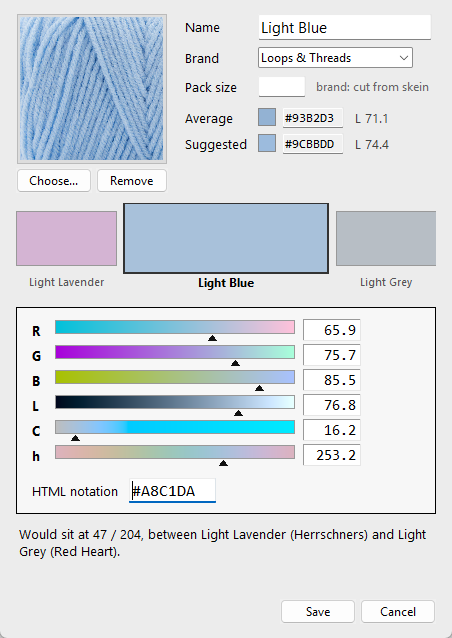
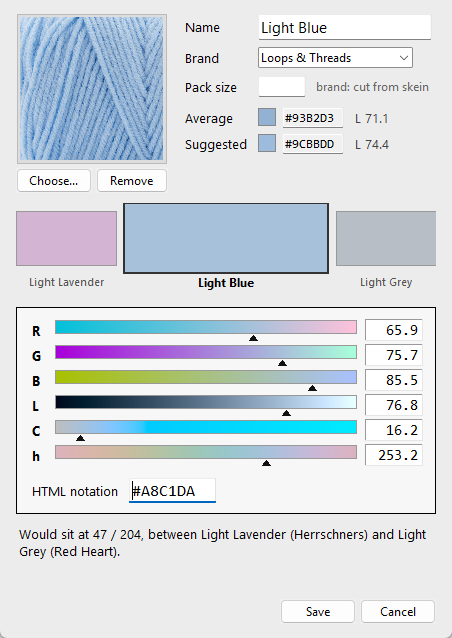
Main window: everything lines up with the swatch, nothing cut off when narrow
- The two color panels fill their halves (outer edges on the swatch's
  edges); their bars grow and shrink with the window, so the yarn's
  difference chips stay inside the panel even at the minimum size. The
  target panel keeps the chip column's room empty so both panels' bars
  line up.
- Stat cards share the full width (Color weight at the end), the six
  buttons share it evenly, and the outer yarn tiles meet the swatch edges.
- Key hints wrap onto as many even lines as needed instead of running
  off the right edge.
- README: main window and yarn dialog retaken (its bars now fill the panel).

Changed region(s): [[0.3717, 0.4765, 0.9292, 0.7445], [0.2168, 0.6552, 0.3407, 0.685], [0.1549, 0.685, 0.1858, 0.7147]]

diff --git a/src/latchwork/app.py b/src/latchwork/app.py
@@ -24,7 +24,7 @@ from .widgets import ColorPanel, StatCard, Tooltip, describe_delta_L, free_name
 ROOT = os.path.dirname(os.path.dirname(os.path.dirname(os.path.abspath(__file__))))
 DATA_DIR = os.path.join(ROOT, "data")
 DEFAULT_PALETTE = os.path.join(DATA_DIR, "palette.csv")
-COMPARE_BAR_W = 200   # channel bars in the comparison: room for the yarn's difference column
+COMPARE_BAR_W = 140   # channel bars in the comparison at least; they grow with the window
 SETTINGS = os.path.join(ROOT, "settings", "latchwork_settings.json")  # per-user, not in git
 OLD_SETTINGS = os.path.join(ROOT, "latchwork_settings.json")          # before the data/ move
 
@@ -293,7 +293,7 @@ class App:
         # width=1: a long name never widens its column; it's cut with "..." to fit instead,
         # and the full name shows on hover
         self.yarn_title = tk.Label(r, text="", font=TITLE_FONT, bg=BG, anchor="w", width=1)
-        self.yarn_title.grid(row=0, column=1, sticky="ew", padx=16, pady=(6, 0))
+        self.yarn_title.grid(row=0, column=1, sticky="ew", padx=(8, 16), pady=(6, 0))
         self._title_font = tkfont.Font(font=TITLE_FONT)
         self._badge_font = tkfont.Font(family="Segoe UI", size=9, weight="bold")
         self._title_text, self._title_cut = "", False
@@ -308,27 +308,32 @@ class App:
 
         self.hex_var = tk.StringVar()
         self.yarn_hex_var = tk.StringVar()
-        self.target_panel = ColorPanel(r, self.hex_var, editable=True, bar_w=COMPARE_BAR_W)
-        self.target_panel.grid(row=2, column=0, sticky="n", padx=16, pady=4)
+        # Everything below the swatch lines up with its edges: each panel fills its half, and
+        # the rows under them span the whole width.
+        self.target_panel = ColorPanel(r, self.hex_var, editable=True, bar_w=COMPARE_BAR_W,
+                                       delta_space=True)
+        self.target_panel.grid(row=2, column=0, sticky="new", padx=(16, 8), pady=4)
         self.yarn_panel = ColorPanel(r, self.yarn_hex_var, editable=True, on_copy=self.copy_hex,
                                      deltas=True, bar_w=COMPARE_BAR_W)
         self.yarn_entry = self.yarn_panel.entry
         self.yarn_hex_var.trace_add("write", lambda *_: self.on_yarn_hex_changed())
         self.yarn_entry.bind("<FocusOut>", lambda e: self.reset_yarn_hex())
-        self.yarn_panel.grid(row=2, column=1, sticky="n", padx=16, pady=4)
+        self.yarn_panel.grid(row=2, column=1, sticky="new", padx=(8, 16), pady=4)
         self.entry = self.target_panel.entry
         self.hex_var.trace_add("write", lambda *_: self.on_hex_changed())
 
+        # Cards share the width in proportion to how much they say; Color weight sits at the end.
         stats = tk.Frame(r, bg=BG)
-        stats.grid(row=3, column=0, columnspan=2, pady=(10, 2))
-        self.delta_card = StatCard(stats, "Lightness difference (yarn \u2212 target)", width=260)
-        self.delta_card.pack(side="left", padx=6)
-        self.pos_card = StatCard(stats, "Position in palette", width=190)
-        self.pos_card.pack(side="left", padx=6)
-        self.match_card = StatCard(stats, "Match rank", width=150)
-        self.match_card.pack(side="left", padx=6)
+        stats.grid(row=3, column=0, columnspan=2, sticky="ew", padx=16, pady=(10, 2))
+        self.delta_card = StatCard(stats, "Lightness difference (yarn \u2212 target)", width=240)
+        self.pos_card = StatCard(stats, "Position in palette", width=170)
+        self.match_card = StatCard(stats, "Match rank", width=140)
+        for col, (card, weight) in enumerate(((self.delta_card, 24), (self.pos_card, 17),
+                                              (self.match_card, 14))):
+            card.grid(row=0, column=col, sticky="ew", padx=(0, 12))
+            stats.columnconfigure(col, weight=weight)
         wbox = tk.Frame(stats, bg=BG)
-        wbox.pack(side="left", padx=(10, 0))
+        wbox.grid(row=0, column=3, sticky="e")
         tk.Label(wbox, text="Color weight", font=UI_FONT, bg=BG).pack(anchor="w")
         self.weight_var = tk.StringVar(value="%g" % self.weight)
         sp = ttk.Spinbox(wbox, from_=0, to=1, increment=0.1, width=5,
@@ -339,18 +344,18 @@ class App:
         tk.Label(wbox, text="0 = lightness only", font=("Segoe UI", 8), bg=BG,
                  fg="#888").pack(anchor="w")
 
+        # Buttons share the width evenly (keys are in the hint bar below, so they stay short).
         nav = tk.Frame(r, bg=BG)
-        nav.grid(row=4, column=0, columnspan=2, pady=6)
-        for text, cmd in (("◀  Lighter", lambda: self.step(-1)),
-                          ("Darker  ▶", lambda: self.step(1)),
-                          ("▲ Better match", lambda: self.cycle_match(-1)),
-                          ("Next match ▼", lambda: self.cycle_match(1))):
-            # keys are in the hint bar below, so the buttons stay short and even
-            ttk.Button(nav, text=text, width=15, command=cmd).pack(side="left", padx=3)
-        self.gray_btn = ttk.Button(nav, text="Grayscale", width=15, command=self.toggle_gray)
-        self.gray_btn.pack(side="left", padx=3)
-        self.assign_main = ttk.Button(nav, text="Assign", width=15, command=self.assign)
-        self.assign_main.pack(side="left", padx=3)
+        nav.grid(row=4, column=0, columnspan=2, sticky="ew", padx=13, pady=6)  # + 3 per button
+        buttons = [ttk.Button(nav, text=text, width=1, command=cmd) for text, cmd in (
+            ("◀  Lighter", lambda: self.step(-1)), ("Darker  ▶", lambda: self.step(1)),
+            ("▲ Better match", lambda: self.cycle_match(-1)),
+            ("Next match ▼", lambda: self.cycle_match(1)),
+            ("Grayscale", self.toggle_gray), ("Assign", self.assign))]
+        self.gray_btn, self.assign_main = buttons[4], buttons[5]
+        for col, b in enumerate(buttons):
+            b.grid(row=0, column=col, sticky="ew", padx=3)
+            nav.columnconfigure(col, weight=1, uniform="nav", minsize=96)
 
         self.strip = tk.Canvas(r, height=96, bg=BG, highlightthickness=0)
         self.strip.grid(row=5, column=0, columnspan=2, sticky="ew", padx=16, pady=(6, 0))
@@ -369,7 +374,8 @@ class App:
 
         hints = tk.Frame(r, bg=BG)
         hints.grid(row=6, column=0, columnspan=2, padx=16, pady=(4, 10))
-        self.hint_rows = [tk.Frame(hints, bg=BG), tk.Frame(hints, bg=BG)]
+        self._hints = hints
+        self.hint_rows = []
         self.hint_items = []
         for keys, text in (("←→", "lighter / darker"), ("N", "next match"), ("B", "better match"),
                            ("Home", "best match"), ("M", "mark candidate"),
@@ -385,21 +391,30 @@ class App:
         r.bind("<Configure>", lambda e: self.layout_hints(e.width), add="+")
 
     def layout_hints(self, width):
-        """One line of key hints when it fits, otherwise two centered lines."""
-        gap = 10
-        total = sum(i.winfo_reqwidth() + gap for i in self.hint_items)
-        split = len(self.hint_items) if total + 32 <= width else (len(self.hint_items) + 1) // 2
+        """Key hints on as few centered lines as fit the width, evened out (2 lines of 6 and
+        5 rather than 10 and 1)."""
+        gap, room = 10, width - 32
+        widths = [i.winfo_reqwidth() + gap for i in self.hint_items]
+        n = len(widths)
+        for lines in range(1, n + 1):
+            per = -(-n // lines)                      # items per line, the same on every line
+            if all(sum(widths[k:k + per]) <= room for k in range(0, n, per)):
+                break
+        split = tuple(range(0, n, per))
         if split == self._hint_split:
             return
         self._hint_split = split
         for row in self.hint_rows:
             row.pack_forget()
-        for n, item in enumerate(self.hint_items):
+        while len(self.hint_rows) < len(split):
+            self.hint_rows.append(tk.Frame(self._hints, bg=BG))
+        for k, item in enumerate(self.hint_items):
             item.pack_forget()
-            item.pack(in_=self.hint_rows[0 if n < split else 1], side="left", padx=(0, gap))
-        self.hint_rows[0].pack()
-        if split < len(self.hint_items):
-            self.hint_rows[1].pack(pady=(3, 0))
+            last = (k + 1) % per == 0 or k == n - 1          # no gap after a line's last item
+            item.pack(in_=self.hint_rows[k // per], side="left", padx=(0, 0 if last else gap))
+            item.lift()   # above the line frames, which may have been created after it
+        for line in range(len(split)):
+            self.hint_rows[line].pack(pady=(0 if line == 0 else 3, 0))
 
     def _bind_keys(self):
         # Arrows step even while typing in the hex field (it's a paste-and-go field).
@@ -1404,8 +1419,10 @@ class App:
         w = c.winfo_width()
         if w < 4 or not self.yarns:
             return
-        slots = 2 * NEIGHBORS + 1
-        sw = w / slots
+        slots, gap = 2 * NEIGHBORS + 1, 6
+        # tile + gap; the outer tiles meet the swatch's edges (1 px in: the bold frame of the
+        # current tile would be cut off at the canvas edge)
+        sw = (w - 3 + gap) / slots
         used = self.used_yarns()
         marks = set(self.candidate_indexes())
         for s in range(slots):
@@ -1413,7 +1430,7 @@ class App:
             if not 0 <= i < len(self.yarns):
                 continue
             y = self.yarns[i]
-            x0, x1 = s * sw + 3, (s + 1) * sw - 3
+            x0, x1 = 1 + s * sw, 1 + (s + 1) * sw - gap
             current = i == self.index
             tag = "slot%d" % i
             c.create_rectangle(x0, 2, x1, 52, fill=display_color(y.rgb, self.gray),

diff --git a/src/latchwork/widgets.py b/src/latchwork/widgets.py
@@ -188,29 +188,37 @@ def channel_delta(name, value, other):
 class ColorPanel(tk.Frame):
     """GIMP-style channel readout: label, gradient bar with marker, boxed value, per channel,
     plus an HTML notation box (editable or read-only). With deltas=True, a column after the
-    values shows this color minus the `other` one passed to show()."""
+    values shows this color minus the `other` one passed to show(); delta_space=True keeps that
+    column's room empty (so two panels side by side line up). The bars take whatever width the
+    panel is given (bar_w is what they ask for)."""
 
-    def __init__(self, parent, hex_var, editable, on_copy=None, deltas=False, bar_w=BAR_W):
+    def __init__(self, parent, hex_var, editable, on_copy=None, deltas=False, bar_w=BAR_W,
+                 delta_space=False):
         super().__init__(parent, bg=PANEL_BG, bd=1, relief="solid", padx=12, pady=10)
         self.bar_w = bar_w
         self.bars, self.values, self.images, self.deltas = [], [], [], []
         self._shown = None   # the rgb whose gradients are drawn
+        self._last = (None, None)   # what show() was last given, to redraw at a new width
+        self._resize_job = None
+        self.columnconfigure(1, weight=1)
         for row, name in enumerate("RGBLCh"):
             tk.Label(self, text=name, font=("Segoe UI", 10, "bold"), bg=PANEL_BG, width=2,
                      anchor="w").grid(row=row, column=0, sticky="w")
             bar = tk.Canvas(self, width=bar_w, height=BAR_H + MARK_H, bg=PANEL_BG,
                             highlightthickness=0)
-            bar.grid(row=row, column=1, padx=(4, 8), pady=2)
+            bar.grid(row=row, column=1, sticky="ew", padx=(4, 8), pady=2)
             val = tk.Label(self, font=VALUE_FONT, bg="white", width=6, anchor="e",
                            relief="sunken", bd=1, padx=4)
             val.grid(row=row, column=2, sticky="e")
-            if deltas:
+            if deltas or delta_space:
                 d = tk.Label(self, font=("Consolas", 10), bg=PANEL_BG, width=6, anchor="e",
                              padx=3)
                 d.grid(row=row, column=3, sticky="e", padx=(6, 0))
-                self.deltas.append(d)
+                if deltas:
+                    self.deltas.append(d)
             self.bars.append(bar)
             self.values.append(val)
+        self.bars[0].bind("<Configure>", self._on_resize)
 
         html = tk.Frame(self, bg=PANEL_BG)
         html.grid(row=6, column=0, columnspan=4, sticky="ew", pady=(10, 0))
@@ -227,6 +235,7 @@ class ColorPanel(tk.Frame):
         """Draw the channels for rgb (or blank if None). `other` (an rgb) adds hollow markers on
         every bar for comparison; no hue marker when either color is near gray. The gradients
         are kept when rgb is the same as last time (stepping yarns only moves the markers)."""
+        self._last = (rgb, other)
         same = rgb is not None and rgb == self._shown and len(self.images) == len(self.bars)
         self._shown = rgb
         if not same:
@@ -275,6 +284,18 @@ class ColorPanel(tk.Frame):
                 self._marker(bar, ghost[name], fill="", outline="#888")
             self._marker(bar, pos, fill="#111", outline="#111")
             val.config(text="%.1f" % value)
+
+    def _on_resize(self, event):
+        """The bars got a new width (window resized): draw them again at that width."""
+        if event.width > 20 and event.width != self.bar_w:
+            self.bar_w = event.width
+            if not self._resize_job:
+                self._resize_job = self.after_idle(self._redraw)
+
+    def _redraw(self):
+        self._resize_job = None
+        self._shown = None   # the gradients are redrawn at the new width
+        self.show(*self._last)
 
     def _marker(self, bar, pos, fill, outline):
         x = 1 + pos * (self.bar_w - 3)
